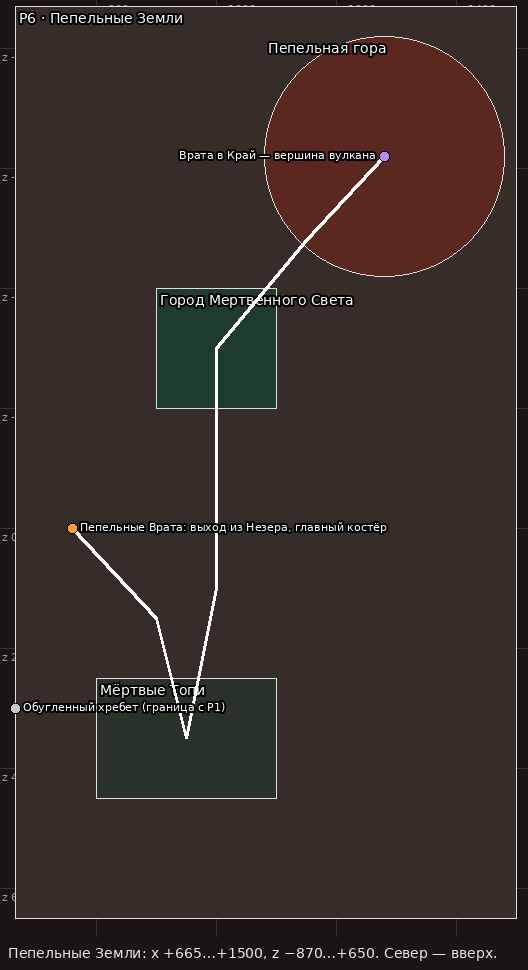
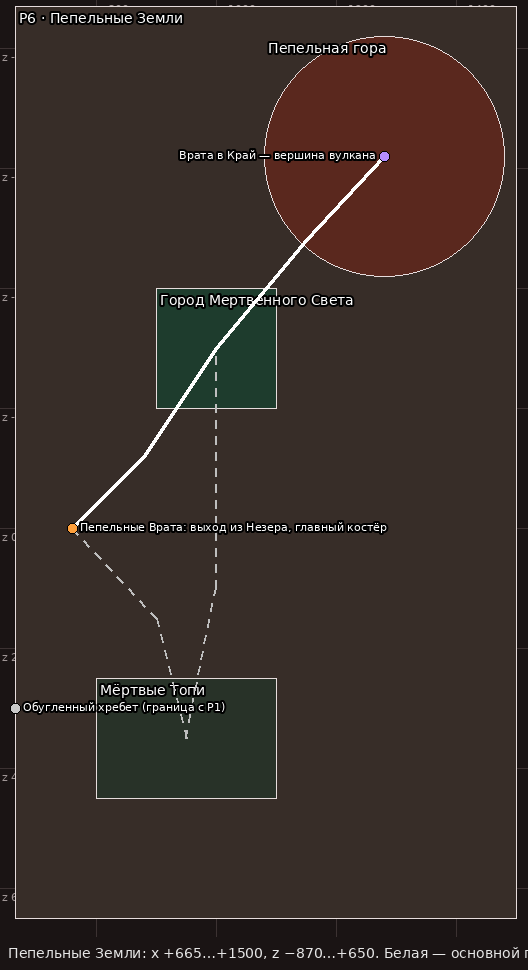
Р6 п2: Огненная Крепость, Бастион Свиных Королей, Наковальня Трёх Глав; Р6 п1 v2 по ответу Штаба

diff --git a/docs/design/schemes/src/r6_p2_plans.py b/docs/design/schemes/src/r6_p2_plans.py
@@ -1,0 +1,43 @@
+#!/usr/bin/env python3
+"""Планы Р6, партия 2: Огненная Крепость, Бастион Свиных Королей, Наковальня Трёх Глав. Координаты Незера.
+Пишет ../r6_fortress_plan.png, ../r6_bastion_plan.png, ../r6_anvil_plan.png. Запуск: python3 r6_p2_plans.py (Pillow)."""
+from r6_layout import plan  # noqa: E402  (r6_layout при импорте перерисует и общие планы — это нормально)
+
+plan("r6_fortress_plan.png", -60, 160, -210, -60, 4, 20,
+     [("   Внешняя стена", "rect", (-50, 150, -200, -80), (70, 25, 25)),
+      ("Двор", "rect", (-28, 128, -142, -98), (95, 60, 45)),
+      ("Зал Пепла", "rect", (26, 74, -178, -150), (60, 20, 30)),
+      ("Сад нароста", "rect", (-28, 8, -176, -146), (110, 30, 40)),
+      ("Темницы (под двором, y 40–50)", "rect", (60, 120, -138, -112), (50, 40, 40)),
+      ("Гал.", "rect", (-46, -32, -178, -100), (85, 45, 40)),
+      ("Гал.", "rect", (132, 146, -178, -100), (85, 45, 40)),
+      ("Привратная", "rect", (40, 60, -96, -80), (100, 70, 50)),
+      ("Оплывшая", "circle", (-40, -190, 10), (120, 50, 30)),
+      ("Колокольня", "circle", (140, -190, 10), (120, 50, 30)),
+      ("Кривая", "circle", (-40, -90, 9), (120, 50, 30)),
+      ("Горн", "circle", (140, -90, 9), (120, 50, 30)),
+      ("Безглавая", "circle", (50, -192, 8), (140, 40, 40))],
+     [("Ворота, костёр снаружи (+50, −70)", 50, -70, (255, 160, 60)), ("Костёр перед Залом (+50, −146)", 50, -146, (255, 160, 60)),
+      ("Кастелян", 50, -168, (230, 230, 230))],
+     [(50, -70), (50, -100), (50, -120), (50, -146), (50, -165)],
+     "Огненная Крепость, x −50…+150, z −200…−80, y 50…100. Белая — к Залу Пепла. Север — вверх.")
+
+plan("r6_bastion_plan.png", 130, 230, 85, 190, 7, 10,
+     [("Бастион Свиных Королей", "rect", (140, 220, 100, 180), (55, 45, 45)),
+      ("Зиккурат", "rect", (160, 200, 120, 160), (80, 65, 50)),
+      ("Тронная (верх, y 80)", "rect", (172, 188, 132, 148), (140, 110, 40)),
+      ("Рынок (бартер)", "rect", (144, 176, 102, 118), (100, 80, 60)),
+      ("Стойла хоглинов", "rect", (144, 168, 164, 178), (90, 50, 50)),
+      ("Казна (внутри, y 50)", "rect", (186, 198, 152, 160), (150, 120, 30))],
+     [("Вход, костёр (+180, +95)", 180, 95, (255, 160, 60)), ("Выход к Котлу", 220, 120, (200, 200, 200))],
+     [(180, 95), (180, 110), (180, 120), (180, 140)],
+     "Бастион, x +140…+220, z +100…+180, y 35…80. Север — вверх.")
+
+plan("r6_anvil_plan.png", 300, 400, -130, 50, 5, 10,
+     [("Плато портала", "rect", (350, 392, 20, 50), (60, 50, 50)),
+      ("Наковальня Трёх Глав (зона r 30)", "circle", (340, -90, 30), (50, 25, 50)),
+      ("Наковальня-скала", "rect", (318, 362, -100, -80), (80, 75, 80))],
+     [("Выходной портал (+370, +40), костёр", 370, 40, (255, 160, 60)), ("Т из песка душ, 3 пьедестала", 344, -90, (120, 220, 255))],
+     [(370, 40), (366, 0), (360, -40), (352, -70), (344, -90)],
+     "Наковальня: тропа от портала. Север — вверх.")
+print("p2 ok")

diff --git a/docs/design/schemes/src/r6_layout.py b/docs/design/schemes/src/r6_layout.py
@@ -7,7 +7,7 @@ OUT = os.path.join(os.path.dirname(os.path.abspath(__file__)), "..")
 F = "/usr/share/fonts/truetype/dejavu/DejaVuSans.ttf"
 font, small = ImageFont.truetype(F, 14), ImageFont.truetype(F, 11)
 
-def plan(fname, x0, x1, z0, z1, scale, grid, areas, points, path, title):
+def plan(fname, x0, x1, z0, z1, scale, grid, areas, points, path, title, alt=None):
     W = int((x1 - x0) * scale); H = int((z1 - z0) * scale)
     img = Image.new("RGB", (W, H + 34), (26, 20, 20)); d = ImageDraw.Draw(img)
     P = lambda x, z: ((x - x0) * scale, (z - z0) * scale)
@@ -25,6 +25,12 @@ def plan(fname, x0, x1, z0, z1, scale, grid, areas, points, path, title):
         d.text((tx + 4, tz + 4), name, fill=(255, 255, 255), font=font, stroke_width=2, stroke_fill=(0, 0, 0))
     if path:
         d.line([P(*p) for p in path], fill=(255, 255, 255), width=3)
+    if alt:  # необязательная петля — пунктир
+        pts = [P(*p) for p in alt]
+        for (ax, az), (bx, bz) in zip(pts, pts[1:]):
+            n = max(1, int(((bx - ax) ** 2 + (bz - az) ** 2) ** 0.5 // 8))
+            for i in range(0, n, 2):
+                d.line([(ax + (bx - ax) * i / n, az + (bz - az) * i / n), (ax + (bx - ax) * (i + 1) / n, az + (bz - az) * (i + 1) / n)], fill=(190, 190, 190), width=2)
     for name, x, z, c in points:
         px, pz = P(x, z); d.ellipse([px - 5, pz - 5, px + 5, pz + 5], fill=c, outline=(0, 0, 0))
         tw = d.textlength(name, font=small); tx = px + 8 if px + 8 + tw < W - 4 else px - 8 - tw
@@ -52,6 +58,7 @@ plan("r6_surface_plan.png", 640, 1520, -880, 680, 0.6, 200,
      [("Пепельные Врата: выход из Незера, главный костёр", 760, 0, (255, 160, 60)),
       ("Врата в Край — вершина вулкана", 1280, -620, (180, 140, 255)),
       ("Обугленный хребет (граница с Р1)", 665, 300, (200, 200, 200))],
-     [(760, 0), (900, 150), (950, 350), (1000, 100), (1000, -300), (1150, -480), (1280, -620)],
-     "Пепельные Земли: x +665…+1500, z −870…+650. Север — вверх.")
+     [(760, 0), (880, -120), (1000, -300), (1150, -480), (1280, -620)],
+     "Пепельные Земли: x +665…+1500, z −870…+650. Белая — основной путь, пунктир — Топи (необязательно). Север — вверх.",
+     alt=[(760, 0), (900, 150), (950, 350), (1000, 100), (1000, -300)])
 print("ok")

diff --git a/docs/design/locations/Карточки локаций Р6, партия 2.md b/docs/design/locations/Карточки локаций Р6, партия 2.md
@@ -1,0 +1,239 @@
+# The Last Ember · Карточки локаций Р6, партия 2
+
+Oct 21, 2026 · Архитектор → Штаб
+
+Р6, партия 2 из 4: три постройки Незера — Огненная Крепость, Бастион Свиных Королей, Наковальня Трёх Глав (Алтарь VI). Все координаты — Незера, раскладка из партии 1 (версия 2).
+
+Общее для трёх:
+
+- **Спавн.** Структуры Незера в генерации выключены (T-001), а ванильные огненные духи и иссушённые скелеты появляются только внутри структуры «крепость», брутальные пиглины — только при генерации бастиона. Поэтому все мобы этих построек — спавн датапаком по точкам, с лимитами. Обычные пиглины, зомби-пиглины, хоглины, гасты и лавовые кубы спавнятся ванильно по биомам.
+- **Черепа.** Обычные черепа иссушённых скелетов не выпадают (решение Штаба). Три Главы — уникальные предметы.
+- **Разрушения.** `mob_griefing false` (T-004) — взрывы иссушителя и гастов блоки не ломают, отдельной защиты арен не нужно.
+- **Правило фундамента:** зона включает основание на 5 блоков ниже, у построек над лавой — до уровня лавы.
+
+---
+
+## 1. Огненная Крепость · Р6
+
+**Роль.** Главное подземелье Незера. Огненные духи и иссушённые скелеты. Сад незерского нароста (зелья: здесь «учится» огнестойкость). В Зале Пепла — элитный иссушённый скелет Кастелян, с него — **Глава Пепла**.
+
+**Положение.** x −50…+150, z −200…−80, y 50…100. Стоит на скальной полке северного берега лавового моря. Ворота — на юг, к Северному мосту с острова (0, 0).
+
+**Габариты.** 200×120, стены высотой 24–30, башни до 46 (над полкой). Фундамент уходит в скалу.
+
+**Образ.** Крепость, которую построили, чтобы удержать огонь, а огонь её расплавил. Пять башен, и ни одна не стоит прямо: верхушки оплыли, как свечи, камень стёк потёками по стенам и застыл. Одна башня без верха — срезана, будто чем-то огромным. Внутри — широкий двор, где когда-то строились войска, а теперь бродят чёрные скелеты. На юге, над мостом, — ворота с опущенной решёткой.
+
+![План Крепости](../schemes/r6_fortress_plan.png)
+
+**Структура по частям.**
+
+1. **Привратная** (+40…+60, −96…−80): ворота 7×9 с опущенной решёткой из `iron_bars` (поднимается swap при входе команды на мост, рифма с воротами Р5), над ними — галерея стрелков. Перед воротами снаружи — **костёр у ворот Крепости** (+50, −70) (из партии 1).
+2. **Внешняя стена** — толщина 4, по верху ход с зубцами. Стена кое-где оплыла: проломы, в которые натекла застывшая «лава» из `magma_block` и `blackstone`.
+3. **Пять башен.**
+   - **Оплывшая** (−40, −190), r 10 — самая высокая, верх стёк набок, как свеча. Внутри винтовая лестница на стену.
+   - **Колокольня** (+140, −190), r 10 — колокол (`bell`) наверху: звонит, если игрок поднимается по лестнице (будит гарнизон, предложение).
+   - **Кривая** (−40, −90), r 9 — наклонена внутрь двора.
+   - **Горн** (+140, −90), r 9 — внутри лавовый горн во всю высоту, жар; гнездо огненных духов.
+   - **Безглавая** (+50, −192), r 8 — за Залом Пепла, верх срезан ровно. С обрыва видно Наковальню вдали.
+4. **Двор** (−28…+128, −142…−98) — открытый, плиты из кирпича Незера, два ряда колонн, сгоревшие стойки с оружием (декор). Здесь основная схватка: иссушённые скелеты патрулируют, огненные духи висят над двором.
+5. **Галереи** — западная и восточная, крытые, на арках (ванильный образ крепости Незера: мосты из кирпича над пустотой). Соединяют угловые башни.
+6. **Сад нароста** (−28…+8, −176…−146) — грядки песка душ с `nether_wart` под навесом, `soul_lantern`. Сундук садовника.
+7. **Темницы** (под двором, +60…+120, −138…−112, y 40–50) — ряды камер за `iron_bars`. В одной — скелет гнома-изгнанника и записка; в другой — пиглин-пленник (зомбированный, нейтральный — сценка).
+8. **Зал Пепла** (+26…+74, −178…−150) — тронный зал 48×28, высота 18. Две колоннады, в конце — трон из `polished_blackstone` на помосте, над ним — чаша с огнём. Перед входом — **костёр перед Залом** (+50, −146).
+
+**Кастелян (предложение).** Элитный иссушённый скелет, крупнее обычного (атрибут `scale` ~1,4), с каменным мечом и в почерневших доспехах. Сидит на троне, встаёт, когда команда пересекает середину зала. В бою из двух чаш-горнов по бокам зала появляются огненные духи (по одному в 20 секунд, не больше 2 одновременно). С Кастеляна падает **Глава Пепла** — череп иссушённого скелета, обугленный. Поражение всех — Кастелян садится на трон, здоровье восстанавливается.
+
+**Палитра.**
+
+| Часть | Блоки и доли |
+| --- | --- |
+| Стены и башни | `nether_bricks` 45%, `cracked_nether_bricks` 20%, `red_nether_bricks` 10%, `blackstone` 15%, `chiseled_nether_bricks` 5%, `magma_block` 5% (потёки) |
+| Оплывшие верхушки | градиент сверху вниз: `blackstone` → `basalt` → `magma_block` пятнами → `nether_bricks`; «капли» — свисающие `nether_brick_wall` |
+| Двор, полы | `nether_bricks`, `nether_brick_slab`, `polished_blackstone` дорожки |
+| Решётки, ограды | `nether_brick_fence`, `iron_bars` |
+| Зал Пепла | `polished_blackstone_bricks`, колонны `polished_basalt`, трон `chiseled_polished_blackstone`, чаши — `magma_block` с `fire` в обводе `polished_blackstone_wall` |
+| Сад | `soul_sand`, `nether_wart`, навес `crimson_planks` |
+
+**Свой биом.** Нет: ванильный `nether_wastes` (с севера граничит с `crimson_forest`).
+
+**Свет.** Магма в потёках, горн в башне Горн, огонь в чашах Зала, `soul_lantern` в саду (синий островок). Двор — полутьма с красными отсветами.
+
+**Точки для механик.**
+
+- Костры: у ворот (+50, −70), перед Залом (+50, −146).
+- Решётка ворот — swap.
+- Колокол Колокольни — триггер «тревога» (предложение): на 30 секунд +3 иссушённых скелета у двора.
+- Спавн датапаком: иссушённые скелеты — 8 точек патрулей двора и галерей (не больше 8 живых); огненные духи — гнездо в Горне и 3 точки над двором (не больше 5 живых).
+- Зал Пепла: триггер-зона, трон (точка Кастеляна), 2 чаши-горна (появление духов).
+- Сундуки: 4 — сад, темницы, арсенал в Оплывшей, казна Кастеляна за троном.
+
+**Пути.** Северный мост → ворота → двор → Зал Пепла. Вокруг — галереи и башни для исследования. Обратно — тем же путём к острову (0, 0) и дальше на восток к Бастиону. Зона приключения — вся Крепость с полкой и фундаментом (y 45…110).
+
+**«Угасшая» версия.** После победы над Кастеляном спавн во дворе реже (вдвое), огонь в чашах Зала гаснет.
+
+**Нагрузка.** Мобы: до 8 иссушённых скелетов + до 5 огненных духов + Кастелян. Блочные: 4 сундука, колокол, 2 костра. Редстоун: нет.
+
+**Идеи для игры (предложения).**
+
+- Нарост из сада — сундук садовника и грядки (ломать в зоне нельзя). Посадить свой нарост можно на песке душ в Долине душ — там Незер разрушаем.
+- Огненные духи — источник огненных стержней: варочная стойка и огнестойкость (нарост + сливки магмы с лавовых кубов).
+- Записка гнома в темнице: «Они звали это место Последним Горном. Огонь, который тут держали, не наш».
+- Срезанная башня — «что-то огромное» прошло здесь: первый намёк на иссушителя.
+
+**Технические заметки для Claude Code.**
+
+- `.nbt` по сетке 40×40, по высоте — 2 слоя (≤ 48): около 30 кусков. Башни с оплывшими верхами — отдельные шаблоны, ставятся поверх.
+- Иссушённые скелеты и огненные духи — только спавн датапаком (ванилла их здесь не даст: структуры нет).
+- Глава Пепла — уникальный предмет (см. Наковальню), выпадает только с Кастеляна, один на команду.
+
+**Референсы.** Рамки (Р6: Харренхолл — замок, оплавленный огнём; ванильная крепость Незера — кирпич, мосты на арках).
+
+---
+
+## 2. Бастион Свиных Королей · Р6
+
+**Роль.** Бартер с пиглинами (здесь «учится» золото и обмен), ценный лут, **Глава Золота** — трофей Свиного Короля.
+
+**Положение.** x +140…+220, z +100…+180, y 35…80. На южном берегу лавового моря, к югу — Долина душ. Вход с севера, от моста (+100, 0) → (+180, +95). Выход на восток — к Котлу.
+
+**Габариты.** 80×80, высота 45 (зиккурат). Фундамент — 5 вниз в базальт.
+
+**Образ.** Ступенчатая гора из чернокамня, обвешанная золотом, как идол. Внизу — рынок под навесами, где пиглины торгуются и дерутся, сбоку вонючие стойла с хоглинами. Наверху, на последней ступени, под балдахином из цепей — трон, и на нём огромный пиглин в золотой короне, с черепом на поясе.
+
+![План Бастиона](../schemes/r6_bastion_plan.png)
+
+**Структура по частям.**
+
+1. **Вход** — ворота с северной стороны, у (+180, +100). Снаружи — **костёр у входа в Бастион** (+180, +95).
+2. **Рынок** (+144…+176, +102…+118) — навесы на `chain`, прилавки, золотые блоки в декоре. Здесь бродят пиглины, готовые к бартеру.
+3. **Зиккурат** (+160…+200, +120…+160) — четыре ступени, на каждую — лестница по оси. Внутри ступеней — казармы брутальных пиглинов, кладовые.
+4. **Тронная** (верх, +172…+188, +132…+148, y 80) — открытая площадка, трон из `gilded_blackstone` и `gold_block`, балдахин из цепей. Свиной Король.
+5. **Казна** (внутри зиккурата, +186…+198, +152…+160, y 50) — сундуки с золотом и ценным лутом (ванильный бастион), охрана — 2 брутальных пиглина.
+6. **Стойла хоглинов** (+144…+168, +164…+178) — загоны, 4 хоглина. Ворота загонов можно открыть — хоглины выбегут на тех, кто рядом.
+7. **Восточный выход** — тропа к мосту на Котёл (+220, +120).
+
+**Свиной Король и Глава Золота (предложение — два пути).**
+
+- **Дань.** Все игроки в команде носят хотя бы один золотой предмет (ванилла: тогда пиглины не нападают), и кто-то кладёт в чашу у трона золотой блок. Король встаёт, снимает череп с пояса и бросает его к ногам. Без боя — для команды, которая пришла подготовленной.
+- **Бой.** Если кто-то без золота, кто-то ударил пиглина или открыл сундук Казны (ванилла: пиглины злятся на вскрытие сундуков) — Король идёт в бой. Он крупный (`scale` ~1,6), с золотым топором, медленный, бьёт по площади. С ним — до 3 брутальных пиглинов. С Короля падает Глава Золота.
+- Поражение всех в бою — Король возвращается на трон, путь дани остаётся открытым.
+
+**Палитра.**
+
+| Часть | Блоки и доли |
+| --- | --- |
+| Зиккурат, стены | `polished_blackstone_bricks` 40%, `blackstone` 25%, `cracked_polished_blackstone_bricks` 15%, `basalt` 10%, `gilded_blackstone` 10% |
+| Золото (только в зоне) | `gold_block` — трон, чаша, 6–8 блоков на рынке; `gilded_blackstone`; `chain` |
+| Рынок | навесы `crimson_planks` и `chain`, прилавки `crimson_slab` |
+| Стойла | `nether_brick_fence`, `soul_soil`, `crimson_nylium` |
+| Казна | `polished_blackstone`, `gold_block` в нишах |
+
+**Свой биом.** Нет: ванильные `nether_wastes` на севере, `soul_sand_valley` на юге (стойла смотрят в Долину душ).
+
+**Свет.** Лава в каналах вдоль ступеней (за `iron_bars`), `lantern` на рынке, у трона — `shroomlight` в золотых нишах (тёплый жёлтый на фоне багрового).
+
+**Точки для механик.**
+
+- Костёр у входа (+180, +95).
+- Чаша дани у трона — точка проверки золотого блока.
+- Трон — точка Короля; триггер «бой» (удар по пиглину, сундук Казны, игрок без золота на верхней ступени).
+- Спавн датапаком: брутальные пиглины — 4 точки в казармах (не больше 3 живых + 2 у Казны). Обычные пиглины на рынке — 6–8 постоянных.
+- Ворота стойл — swap.
+- Сундуки: Казна (2), казармы (1), рынок (1).
+
+**Пути.** Вход с севера → рынок → лестницы зиккурата → тронная. Казна — через внутренние ходы. Восточный выход → мост на Котёл. Зона приключения — весь Бастион с фундаментом.
+
+**«Угасшая» версия.** После дани или победы Король сидит без черепа (или трон пуст). Бартер на рынке работает дальше.
+
+**Нагрузка.** Мобы: 6–8 пиглинов + до 5 брутальных + Король + 4 хоглина. Сущности: нет. Блочные: 4 сундука, костёр.
+
+**Идеи для игры (предложения).**
+
+- Бартер — ванильный (рамки), сюда приходят за огнестойкостью и жемчугом. Золото — из Шахт Предков (Р5): глава учит, что золото пригодится.
+- Пленник Крепости (зомбированный пиглин в темнице) — родственник Короля: записка на пиглинском (картинками) — Король даст скидку на дань (например, слитки вместо блока), если принести его жетон.
+- На стене тронной — фреска: огромный трёхглавый зверь и пиглины, бегущие от него. Король хранит один из черепов как трофей.
+
+**Технические заметки для Claude Code.**
+
+- `.nbt` 4 куска 40×40×48 по четвертям.
+- Брутальные пиглины — только датапаком. Обычные пиглины нейтральны к игроку в золоте — это ванилла, работает на каждого игрока отдельно.
+- Если у команды нет золота вовсе, путь дани закрыт — остаётся бой. Количество золота для дани — по экономике Штаба.
+
+**Референсы.** Рамки (Р6: бастион, пиглины, бартер; ванильный бастион — палитра и казна).
+
+---
+
+## 3. Наковальня Трёх Глав · Р6, Алтарь VI
+
+**Роль.** Алтарь VI. Три Главы на песке душ — призыв иссушителя. Победа даёт звезду Незера — ключ к вратам в Край на вершине Пепельной горы.
+
+**Положение.** Скала в лаве, центр (+340, −90), зона — цилиндр r 30, y 30…110. От выходного портала (+370, +40) к ней ведёт тропа на север, около 140 блоков.
+
+**Габариты.** Скала-наковальня 44×20 по верху, высота над лавой ~30 (верх y 62). Вокруг — кольцо уступов на y 48, ширина 6.
+
+**Образ.** Одинокая скала посреди лавы, по очертаниям — наковальня: широкая плоская вершина, рог на запад, узкая «талия» к низу. На вершине — Т из песка душ, на которой не хватает трёх голов. Сюда ковали что-то, чего не должно было быть. Тропа с плато портала идёт по базальтовым гребням над лавой, и на всём её протяжении скала видна впереди.
+
+![План Наковальни](../schemes/r6_anvil_plan.png)
+
+**Структура по частям.**
+
+1. **Тропа** с плато выходного портала: гребни `basalt` ширина 3–5, два коротких моста. Костёр у выходного портала (+370, +40) — он же костёр перед ареной (~140 по тропе).
+2. **Кольцо уступов** y 48 вокруг скалы: базальтовые полки, 4 лестницы на вершину. Укрытия от черепов иссушителя.
+3. **Вершина** y 62, 44×20: ровная площадка из `polished_blackstone`, на краях — 6 столпов `polished_basalt` с цепями к своду (держат «наковальню» над огнём).
+4. **Т из песка душ** в центре — 4 блока `soul_sand` (ножка и перекладина), над перекладиной — три места под Главы. Ножка смотрит на юг, к порталу.
+5. **Рог** — западный выступ вершины: обзорная точка на лавовое море и Крепость.
+
+**Призыв.** Игрок ставит Главу на её место (клик по пьедесталу — предложение: Главы не обычные черепа, а предметы, которые нельзя поставить как блок; так иссушителя нельзя вызвать в другом месте). Датапак ставит череп-блок, повёрнутый к месту, откуда Глава принесена (правило алтарей: Пепла — на запад-северо-запад к Крепости, Золота — на запад-юго-запад к Бастиону, Света — на юг-юго-восток к порталу и Городу). Когда все три на месте — гул, Т вспыхивает, датапак проводит призыв иссушителя (появление с ванильной анимацией набора здоровья).
+
+**Бой.** Ванильный иссушитель. Арена ограничена `barrier`-цилиндром r 30 до свода (y 110), чтобы он не улетел. Падение с вершины — на кольцо уступов (не смерть), с уступов — в лаву (смерть, след в Урну). Поражение всех — иссушитель исчезает, Главы остаются на местах, призыв можно повторить.
+
+**Победа.** Звезда Незера (одна на команду). Т из песка душ гаснет, Главы рассыпаются пеплом. Пепел в воздухе над скалой — тише.
+
+**Палитра.**
+
+| Часть | Блоки и доли |
+| --- | --- |
+| Скала | `basalt` 45%, `blackstone` 30%, `smooth_basalt` 15%, `magma_block` 10% (трещины) |
+| Вершина | `polished_blackstone` 60%, `polished_blackstone_bricks` 30%, `chiseled_polished_blackstone` 10% (узор по краю) |
+| Т | `soul_sand`, вокруг рамка `soul_soil` |
+| Столпы и цепи | `polished_basalt`, `chain` |
+| Тропа | `basalt`, `blackstone` |
+
+**Свой биом.** Нет: ванильный `basalt_deltas`.
+
+**Свет.** Лава снизу, магма в трещинах. На вершине — 4 `soul_campfire` (декор, не номерные) по углам Т — синий свет, рифма с огнём души в Котле.
+
+**Точки для механик.**
+
+- Три пьедестала Глав (над каждым — место под череп-блок), триггер «все три».
+- Точка появления иссушителя — над Т, y 66.
+- `barrier`-цилиндр r 30, y 30…110.
+- Костёр — у выходного портала.
+
+**Пути.** Плато портала → тропа → кольцо → вершина. Обратно — той же тропой к порталу и на поверхность, к вершине Пепельной горы. Зона приключения — весь цилиндр.
+
+**«Угасшая» версия.** После победы: Т тёмная, Главы — пепел, столпы целы.
+
+**Нагрузка.** Сущности: иссушитель, 3 череп-блока, 3 `interaction` у пьедесталов. Блочные: 4 декоративных костра.
+
+**Идеи для игры (предложения).**
+
+- Трёхглавый «зверь» с фрески Бастиона и срезанная башня Крепости — иссушителя уже вызывали однажды. Записка у Т: «Мы ковали щит от огня. Получился огонь, у которого три головы».
+- Звезда Незера как ключ: на вершине Пепельной горы — пирамида маяка, звезда становится маяком, луч открывает врата (см. вопрос 1).
+
+**Технические заметки для Claude Code.**
+
+- Скала — 2 куска `.nbt` (44×20×48 по высоте разбить на 2). Тропа — скриптом.
+- Главы — уникальные предметы с `item_model` черепа; ставит черепа датапак. Обычные черепа иссушённых скелетов из мира не выпадают (решение Штаба).
+- Иссушитель в 26.3 — проверить по игре, ломает ли он блоки при `mob_griefing false` (по ванилле не должен) и держит ли его `barrier`.
+
+**Референсы.** Рамки (Р6: Наковальня Трёх Глав, звезда — ключ к финалу; ванильный призыв иссушителя).
+
+---
+
+## Открытые вопросы
+
+1. **Звезда и маяк.** Рамки говорят, что Р6 «учит маяк». Звезда Незера и есть сердце маяка. Предлагаю: у врат в Край на вершине Пепельной горы — готовая пирамида, игроки собирают маяк из звезды и ставят его — луч открывает врата. Так маяк и ключ — одно. Или звезда просто вставляется во врата, а маяк — отдельно (тогда нужна вторая звезда)?
+2. **Незерит.** Рамки: Р6 «учит незерит». Древних обломков в мире нет (T-001). Предлагаю 4–6 `ancient_debris` в отмеченном месте — под башней Горн (Крепость), в разрушаемом кармане за стеной зоны, — и шаблон улучшения в Казне Бастиона. Количество и место — решение экономики.
+3. **Свиной Король — дань или бой.** Оставить оба пути (предлагаю) или только один?
+4. **Колокол Колокольни** — тревога с подкреплением. Берём?

diff --git a/docs/design/locations/Карточки локаций Р6, партия 1.md b/docs/design/locations/Карточки локаций Р6, партия 1.md
@@ -4,10 +4,12 @@ Oct 21, 2026 · Архитектор → Штаб
 
 Р6 — Испод (Незер) и Пепельные Земли (восток верхнего мира, x > +665). Делю на четыре партии.
 
+Версия 2 (21.10): всё принято Штабом, координаты утверждены, ответы внесены. Основной путь по поверхности — прямо от Врат к Городу, Топи — необязательная петля. Банды в Р6 нет.
+
 1. **Эта партия:** раскладка Незера и поверхности, каркас Незера (границы, порталы, мосты), арена Пепельного Духа «Пепельный Котёл», Пепельные Врата (выход на поверхность, главный костёр Р6).
 2. **Партия 2:** Огненная Крепость, Бастион Свиных Королей, Наковальня Трёх Глав (Алтарь VI).
 3. **Партия 3:** Пепельная Пустошь, Мёртвые Топи, Город Мертвенного Света.
-4. **Партия 4:** Пепельная гора (карта высот вулкана, Скит Пепельного Монаха, врата в Край), сокровищницы, мечи, костры, банда Р6 — если она есть.
+4. **Партия 4:** Пепельная гора (карта высот вулкана, Скит Пепельного Монаха, врата в Край), сокровищницы, мечи, костры (банды в Р6 нет).
 
 ## Раскладка Незера
 
@@ -47,7 +49,9 @@ Oct 21, 2026 · Архитектор → Штаб
 | Пепельная гора | круг (+1280, −620), r 200 | Партия 4. Вулкан в северо-восточном углу, на вершине врата в Край |
 | Пепельная Пустошь | всё остальное | Партия 3. Свой биом, пепел вместо снега |
 
-**Основной путь:** Врата → на юг к Топям (около 300) → через гати на север → Город (около 600) → склоны горы → вершина. Петля через Топи нужна, чтобы игроки увидели Пустошь, прежде чем подойти к Городу. Если Штаб хочет короче, можно идти от Врат прямо на северо-восток к Городу, а Топи сделать необязательными.
+**Основной путь** (решено Штабом): Врата → прямо на северо-восток к Городу (около 360) → склоны горы → вершина. Порядок главы: Крепость → Бастион → Котёл → поверхность → Город → порталом назад к Наковальне → иссушитель → звезда Незера → вершина.
+
+**Мёртвые Топи** — необязательная петля к югу от Врат (пунктир на плане): торговец, сокровищница, лор.
 
 **Проверка соседства.** Вулкан r 200 у (+1280, −620): его северный край z −820 в 50 от оси Стены (z −870). Подножие на севере надо срезать по хребту (вулкан «прижат» к Стене) — уточню картой высот в партии 4. Восточный край x +1480 — в 20 от края мира, по краю — барьер (как везде).
 
@@ -117,7 +121,7 @@ Oct 21, 2026 · Архитектор → Штаб
 
 **Референсы.** Рамки (Р6: Харренхолл для Крепости, ванильные биомы Незера).
 
-**Открытые вопросы.** 1 и 4 в конце.
+**Решено Штабом.** Рельеф — ванильный сид + `fillbiome` + правка скриптом (рендер срезов — билдеру). Самодельные порталы перехватываем. Лагеря изгнанников, капель лавы, тайник с огнестойкостью — приняты.
 
 ---
 
@@ -181,7 +185,7 @@ Oct 21, 2026 · Архитектор → Штаб
 
 - Дух — то, что осталось от огня: если игрок пил огнестойкость, лава и магма ему не страшны, но шары слабости — да. Огнестойкость здесь полезна, но не решает бой.
 - Перед ареной, на последнем быке западного моста, — следы гнома-изгнанника, который «видел, как огонь стал синим».
-- Награда: кроме прохода — «Пепел Духа», ингредиент, например, для зелья или заряда посоха (решает Штаб).
+- Награда: кроме прохода — **Пепел Духа**, по одному каждому игроку (принято; применение Штаб решит вместе с экономикой).
 
 **Технические заметки для Claude Code.**
 
@@ -250,13 +254,10 @@ Oct 21, 2026 · Архитектор → Штаб
 
 ---
 
-## Открытые вопросы
+## Решено Штабом
 
-1. **Рельеф Незера.** Предлагаю ванильную генерацию сида 10845 + `fillbiome` + правку скриптом, а не постройку пещеры с нуля. Если лавовое море сида не ложится на раскладку — сдвинуть раскладку целиком (координаты Незера свободны). Подходит?
-2. **Вулкан «из любой точки» не виден.** Прорисовка 190 блоков; от Врат до вулкана около 800, от Топей — больше 900. Гору видно примерно из северной половины региона (от Города и ближе). Что предлагаю вместо «всегда в поле зрения»:
-   - фреска-карта во Вратах и карты в сундуках (как уже решили для других дальних ориентиров);
-   - **гул вулкана** — скрипт раз в 20–40 секунд проигрывает игрокам в Р6 рокот (`playsound`) из точки в 16 блоках от игрока в сторону горы: гору не видно, но слышно, где она;
-   - пепел (частицы биома) и красно-бурое небо по всему региону.
-   Подходит, или вулкан нужно сдвинуть ближе к центру региона?
-3. **Порядок и «три главы».** Как я понимаю рамки: Крепость → Бастион → Котёл → поверхность (Топи, Город) → возврат порталом к Наковальне → иссушитель → звезда → вершина. Предлагаю «три главы» Алтаря VI = три черепа иссушённого скелета, по одному из трёх мест: Огненная Крепость (элитный иссушённый скелет), Бастион (трофей Свиного Короля), Город Мертвенного Света (ключевой предмет по рамкам). Тогда Наковальня = три черепа на песке душ = ванильный призыв иссушителя. Или у Алтаря VI свои три предмета, а черепа — отдельно?
-4. **Самодельные порталы.** Перехватывать любой вход в Незер не через наши порталы (вернуть игрока и погасить портал) — подтвердить.
+1. **Рельеф Незера** — ванильная генерация сида 10845, `fillbiome`, правка скриптом. Если лавовое море не ложится на раскладку — раскладка сдвигается целиком.
+2. **Вулкан** не двигаем. Ориентиры: фреска во Вратах, гул вулкана со стороны горы, пепел и красно-бурое небо по всему региону.
+3. **Три главы — три уникальных черепа с именами:** Глава Пепла (Огненная Крепость, элитный иссушённый скелет), Глава Золота (Бастион, трофей Свиного Короля), Глава Света (Город Мертвенного Света). На Наковальне — песок душ буквой Т; когда все три на месте, датапак проводит призыв иссушителя. Победа даёт звезду Незера для врат в Край. Обычные черепа иссушённых скелетов из мира не выпадают.
+4. **Самодельные порталы** перехватываем.
+5. **Пепельный Котёл** — схема боя принята целиком; награда — Пепел Духа каждому игроку. **Пепельные Врата** приняты с запиской.
